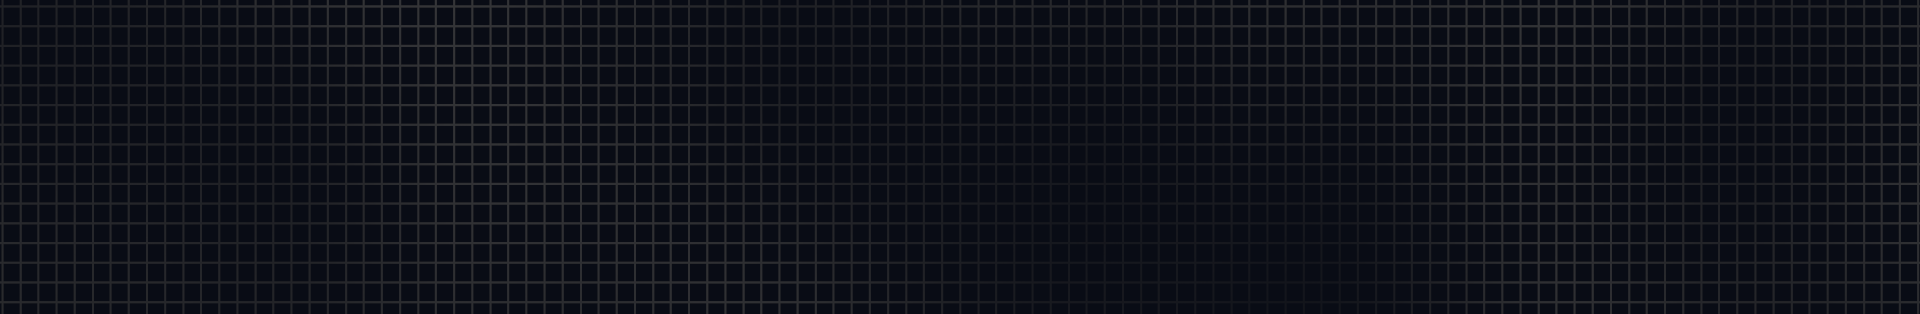
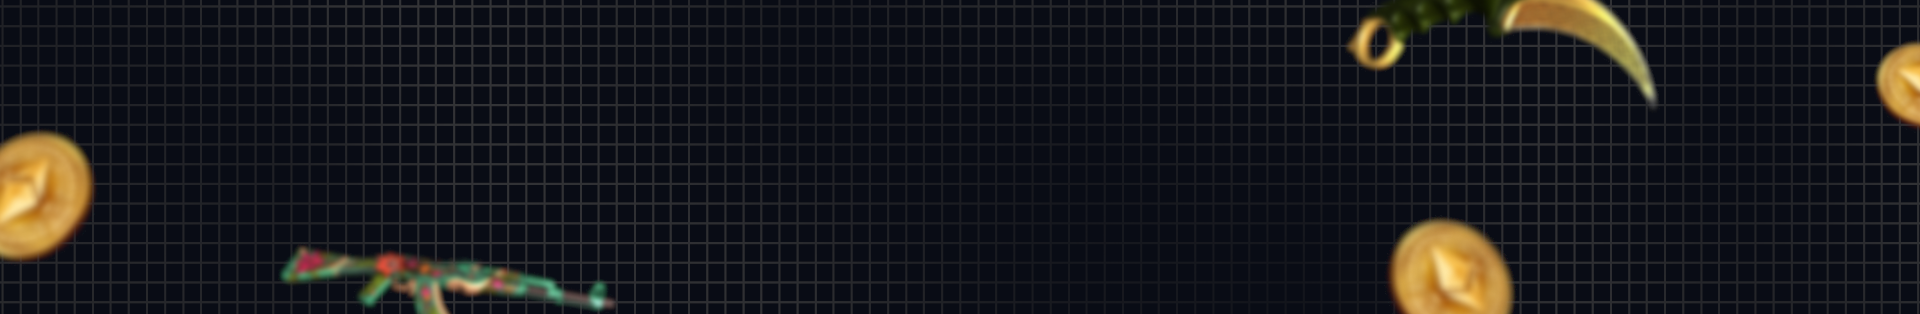
Add dumb images to the background of the affiliates page

diff --git a/website/static/css/affiliates.css b/website/static/css/affiliates.css
@@ -10,7 +10,6 @@
     width: calc(100vw - 20px);
     height: 230px;
     overflow: hidden;
-    mix-blend-mode: overlay;
     margin: 0 -20px 0 -20px;
     background: #35477c;
 }
@@ -59,7 +58,6 @@
     align-self: center;
     margin-top: 20px;
     z-index: 10;
-    max-width: 80%;
 }
 
 .affiliate-block {
